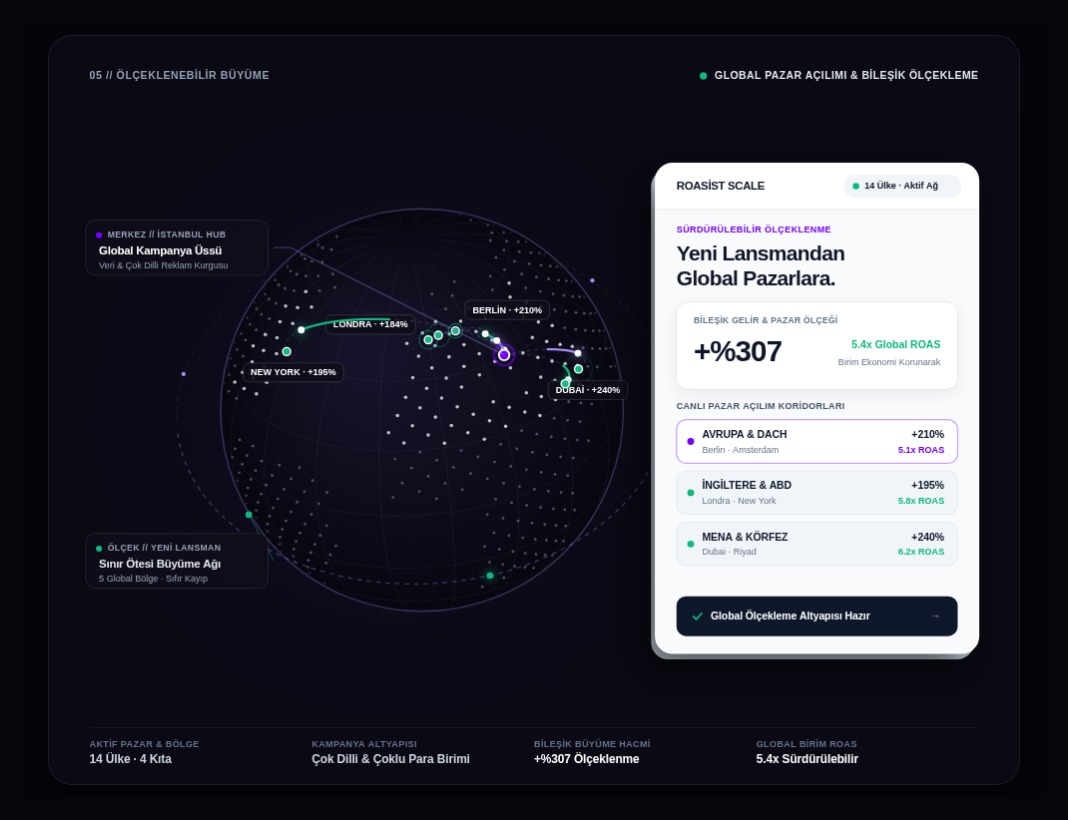
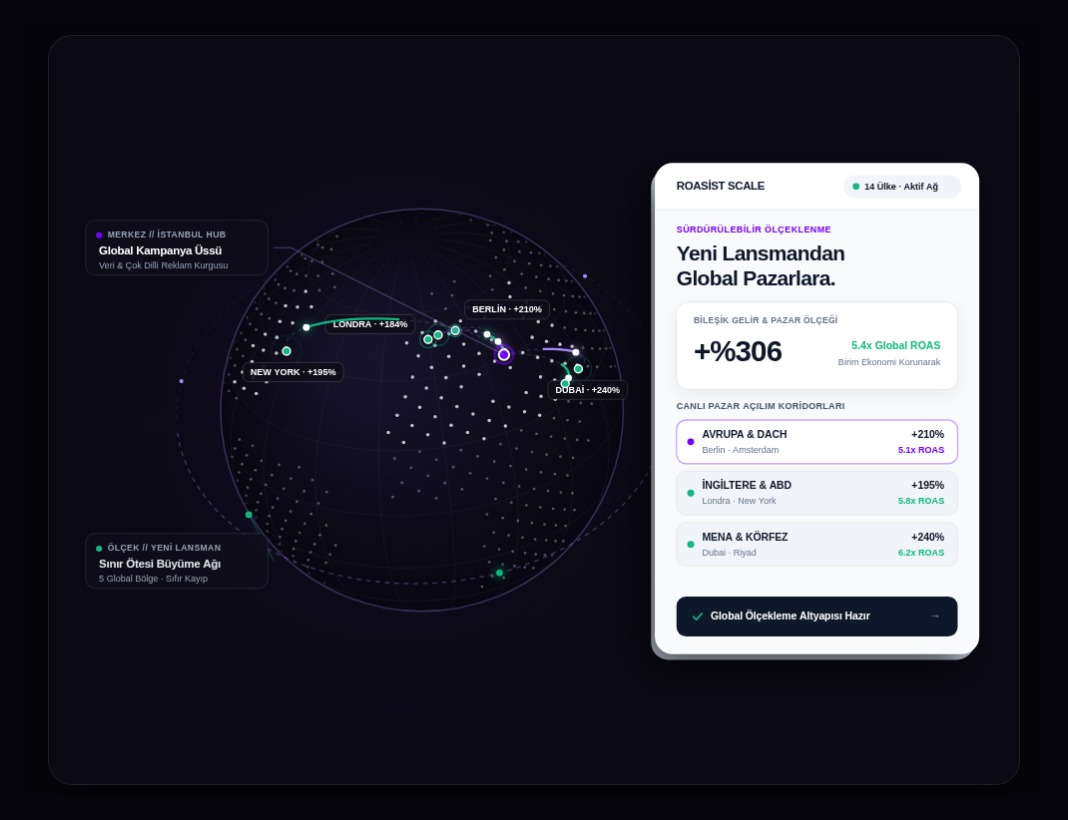
style(home): remove top and bottom HUD text overlays from Slide 5 (Ölçeklenebilir büyüme) canvas

diff --git a/public/olceklenebilir-buyume-3d.html b/public/olceklenebilir-buyume-3d.html
@@ -348,9 +348,9 @@
       }
 
       // ============================================================================
-      // 1. STUDIO BACKDROP & MINIMAL ARCHITECTURAL HUD (ZERO BOX-IN-BOX)
+      // 1. STUDIO BACKDROP (CLEAN ARCHITECTURAL STAGE, ZERO TOP/BOTTOM HUD TEXT)
       // ============================================================================
-      function drawStudioBackdropAndHUD(c, activeMarketsCount, compoundGrowth, globalRoas) {
+      function drawStudioBackdropAndHUD(c) {
         c.fillStyle = '#0B0914';
         c.fillRect(0, 0, 1020, 788);
 
@@ -361,57 +361,6 @@
         grad.addColorStop(1, 'rgba(11, 9, 20, 0)');
         c.fillStyle = grad;
         c.fillRect(0, 0, 1020, 788);
-
-        // Minimal Editorial Top HUD
-        c.save();
-        c.fillStyle = '#94A3B8';
-        c.font = `600 11px 'Inter', sans-serif`;
-        c.textAlign = 'left';
-        c.textBaseline = 'middle';
-        if ('letterSpacing' in c) c.letterSpacing = '0.06em';
-        c.fillText('05 // ÖLÇEKLENEBİLİR BÜYÜME', 42, 42);
-
-        const stateText = 'GLOBAL PAZAR AÇILIMI & BİLEŞİK ÖLÇEKLEME';
-        c.textAlign = 'right';
-        c.fillStyle = '#E2E8F0';
-        c.font = `600 11px 'Inter', sans-serif`;
-        if ('letterSpacing' in c) c.letterSpacing = '0.04em';
-        c.fillText(stateText, 1020 - 42, 42);
-
-        const tw = c.measureText(stateText).width;
-        c.beginPath();
-        c.arc(1020 - 42 - tw - 12, 42, 3.8, 0, Math.PI * 2);
-        c.fillStyle = '#10B981';
-        c.fill();
-
-        // Bottom minimal architectural specs bar (4 columns, tabular-nums)
-        const botY = 788 - 38;
-        c.fillStyle = 'rgba(255, 255, 255, 0.08)';
-        c.fillRect(42, botY - 22, 1020 - 84, 1);
-
-        const specs = [
-          { label: 'AKTİF PAZAR & BÖLGE', val: `${activeMarketsCount} Ülke · 4 Kıta` },
-          { label: 'KAMPANYA ALTYAPISI', val: 'Çok Dilli & Çoklu Para Birimi' },
-          { label: 'BİLEŞİK BÜYÜME HACMİ', val: `+%${Math.round(compoundGrowth)} Ölçeklenme` },
-          { label: 'GLOBAL BİRİM ROAS', val: `${globalRoas.toFixed(1)}x Sürdürülebilir` }
-        ];
-
-        const colW = (1020 - 84) / 4;
-        specs.forEach((sp, i) => {
-          const sx = 42 + i * colW;
-          c.fillStyle = '#64748B';
-          c.font = `600 9.5px 'Inter', sans-serif`;
-          c.textAlign = 'left';
-          if ('letterSpacing' in c) c.letterSpacing = '0.04em';
-          c.fillText(sp.label, sx, botY - 4);
-
-          c.fillStyle = i >= 2 ? '#FFFFFF' : '#CBD5E1';
-          c.font = `700 12.5px 'Inter', sans-serif`;
-          if ('letterSpacing' in c) c.letterSpacing = '-0.01em';
-          c.fillText(sp.val, sx, botY + 13);
-        });
-
-        c.restore();
       }
 
       // ============================================================================

diff --git a/public/en/index.html b/public/en/index.html
@@ -4543,7 +4543,7 @@ html body .roasist-scale-globe-canvas {
     };
   }
 
-  function drawStudioBackdropAndHUDS5(c, activeMarketsCount, compoundGrowth, globalRoas) {
+  function drawStudioBackdropAndHUDS5(c) {
     c.fillStyle = '#0B0914';
     c.fillRect(0, 0, 1020, 788);
 
@@ -4553,55 +4553,6 @@ html body .roasist-scale-globe-canvas {
     grad.addColorStop(1, 'rgba(11, 9, 20, 0)');
     c.fillStyle = grad;
     c.fillRect(0, 0, 1020, 788);
-
-    c.save();
-    c.fillStyle = '#94A3B8';
-    c.font = `600 11px 'Inter', sans-serif`;
-    c.textAlign = 'left';
-    c.textBaseline = 'middle';
-    if ('letterSpacing' in c) c.letterSpacing = '0.06em';
-    c.fillText('05 // ÖLÇEKLENEBİLİR BÜYÜME', 42, 42);
-
-    const stateText = 'GLOBAL PAZAR AÇILIMI & BİLEŞİK ÖLÇEKLEME';
-    c.textAlign = 'right';
-    c.fillStyle = '#E2E8F0';
-    c.font = `600 11px 'Inter', sans-serif`;
-    if ('letterSpacing' in c) c.letterSpacing = '0.04em';
-    c.fillText(stateText, 1020 - 42, 42);
-
-    const tw = c.measureText(stateText).width;
-    c.beginPath();
-    c.arc(1020 - 42 - tw - 12, 42, 3.8, 0, Math.PI * 2);
-    c.fillStyle = '#10B981';
-    c.fill();
-
-    const botY = 788 - 38;
-    c.fillStyle = 'rgba(255, 255, 255, 0.08)';
-    c.fillRect(42, botY - 22, 1020 - 84, 1);
-
-    const specs = [
-      { label: 'AKTİF PAZAR & BÖLGE', val: `${activeMarketsCount} Ülke · 4 Kıta` },
-      { label: 'KAMPANYA ALTYAPISI', val: 'Çok Dilli & Çoklu Para Birimi' },
-      { label: 'BİLEŞİK BÜYÜME HACMİ', val: `+%${Math.round(compoundGrowth)} Ölçeklenme` },
-      { label: 'GLOBAL BİRİM ROAS', val: `${globalRoas.toFixed(1)}x Sürdürülebilir` }
-    ];
-
-    const colW = (1020 - 84) / 4;
-    specs.forEach((sp, i) => {
-      const sx = 42 + i * colW;
-      c.fillStyle = '#64748B';
-      c.font = `600 9.5px 'Inter', sans-serif`;
-      c.textAlign = 'left';
-      if ('letterSpacing' in c) c.letterSpacing = '0.04em';
-      c.fillText(sp.label, sx, botY - 4);
-
-      c.fillStyle = i >= 2 ? '#FFFFFF' : '#CBD5E1';
-      c.font = `700 12.5px 'Inter', sans-serif`;
-      if ('letterSpacing' in c) c.letterSpacing = '-0.01em';
-      c.fillText(sp.val, sx, botY + 13);
-    });
-
-    c.restore();
   }
 
   function drawOrbitalScaleRingHalfS5(c, radius, cam, elapsed, isFrontHalf) {

diff --git a/public/kota-roasist-local.html b/public/kota-roasist-local.html
@@ -4543,7 +4543,7 @@ html body .roasist-scale-globe-canvas {
     };
   }
 
-  function drawStudioBackdropAndHUDS5(c, activeMarketsCount, compoundGrowth, globalRoas) {
+  function drawStudioBackdropAndHUDS5(c) {
     c.fillStyle = '#0B0914';
     c.fillRect(0, 0, 1020, 788);
 
@@ -4553,55 +4553,6 @@ html body .roasist-scale-globe-canvas {
     grad.addColorStop(1, 'rgba(11, 9, 20, 0)');
     c.fillStyle = grad;
     c.fillRect(0, 0, 1020, 788);
-
-    c.save();
-    c.fillStyle = '#94A3B8';
-    c.font = `600 11px 'Inter', sans-serif`;
-    c.textAlign = 'left';
-    c.textBaseline = 'middle';
-    if ('letterSpacing' in c) c.letterSpacing = '0.06em';
-    c.fillText('05 // ÖLÇEKLENEBİLİR BÜYÜME', 42, 42);
-
-    const stateText = 'GLOBAL PAZAR AÇILIMI & BİLEŞİK ÖLÇEKLEME';
-    c.textAlign = 'right';
-    c.fillStyle = '#E2E8F0';
-    c.font = `600 11px 'Inter', sans-serif`;
-    if ('letterSpacing' in c) c.letterSpacing = '0.04em';
-    c.fillText(stateText, 1020 - 42, 42);
-
-    const tw = c.measureText(stateText).width;
-    c.beginPath();
-    c.arc(1020 - 42 - tw - 12, 42, 3.8, 0, Math.PI * 2);
-    c.fillStyle = '#10B981';
-    c.fill();
-
-    const botY = 788 - 38;
-    c.fillStyle = 'rgba(255, 255, 255, 0.08)';
-    c.fillRect(42, botY - 22, 1020 - 84, 1);
-
-    const specs = [
-      { label: 'AKTİF PAZAR & BÖLGE', val: `${activeMarketsCount} Ülke · 4 Kıta` },
-      { label: 'KAMPANYA ALTYAPISI', val: 'Çok Dilli & Çoklu Para Birimi' },
-      { label: 'BİLEŞİK BÜYÜME HACMİ', val: `+%${Math.round(compoundGrowth)} Ölçeklenme` },
-      { label: 'GLOBAL BİRİM ROAS', val: `${globalRoas.toFixed(1)}x Sürdürülebilir` }
-    ];
-
-    const colW = (1020 - 84) / 4;
-    specs.forEach((sp, i) => {
-      const sx = 42 + i * colW;
-      c.fillStyle = '#64748B';
-      c.font = `600 9.5px 'Inter', sans-serif`;
-      c.textAlign = 'left';
-      if ('letterSpacing' in c) c.letterSpacing = '0.04em';
-      c.fillText(sp.label, sx, botY - 4);
-
-      c.fillStyle = i >= 2 ? '#FFFFFF' : '#CBD5E1';
-      c.font = `700 12.5px 'Inter', sans-serif`;
-      if ('letterSpacing' in c) c.letterSpacing = '-0.01em';
-      c.fillText(sp.val, sx, botY + 13);
-    });
-
-    c.restore();
   }
 
   function drawOrbitalScaleRingHalfS5(c, radius, cam, elapsed, isFrontHalf) {

diff --git a/scripts/inject_homepage_kinetic_3d.py b/scripts/inject_homepage_kinetic_3d.py
@@ -2634,7 +2634,7 @@ html body .roasist-scale-globe-canvas {
     };
   }
 
-  function drawStudioBackdropAndHUDS5(c, activeMarketsCount, compoundGrowth, globalRoas) {
+  function drawStudioBackdropAndHUDS5(c) {
     c.fillStyle = '#0B0914';
     c.fillRect(0, 0, 1020, 788);
 
@@ -2644,55 +2644,6 @@ html body .roasist-scale-globe-canvas {
     grad.addColorStop(1, 'rgba(11, 9, 20, 0)');
     c.fillStyle = grad;
     c.fillRect(0, 0, 1020, 788);
-
-    c.save();
-    c.fillStyle = '#94A3B8';
-    c.font = `600 11px 'Inter', sans-serif`;
-    c.textAlign = 'left';
-    c.textBaseline = 'middle';
-    if ('letterSpacing' in c) c.letterSpacing = '0.06em';
-    c.fillText('05 // ÖLÇEKLENEBİLİR BÜYÜME', 42, 42);
-
-    const stateText = 'GLOBAL PAZAR AÇILIMI & BİLEŞİK ÖLÇEKLEME';
-    c.textAlign = 'right';
-    c.fillStyle = '#E2E8F0';
-    c.font = `600 11px 'Inter', sans-serif`;
-    if ('letterSpacing' in c) c.letterSpacing = '0.04em';
-    c.fillText(stateText, 1020 - 42, 42);
-
-    const tw = c.measureText(stateText).width;
-    c.beginPath();
-    c.arc(1020 - 42 - tw - 12, 42, 3.8, 0, Math.PI * 2);
-    c.fillStyle = '#10B981';
-    c.fill();
-
-    const botY = 788 - 38;
-    c.fillStyle = 'rgba(255, 255, 255, 0.08)';
-    c.fillRect(42, botY - 22, 1020 - 84, 1);
-
-    const specs = [
-      { label: 'AKTİF PAZAR & BÖLGE', val: `${activeMarketsCount} Ülke · 4 Kıta` },
-      { label: 'KAMPANYA ALTYAPISI', val: 'Çok Dilli & Çoklu Para Birimi' },
-      { label: 'BİLEŞİK BÜYÜME HACMİ', val: `+%${Math.round(compoundGrowth)} Ölçeklenme` },
-      { label: 'GLOBAL BİRİM ROAS', val: `${globalRoas.toFixed(1)}x Sürdürülebilir` }
-    ];
-
-    const colW = (1020 - 84) / 4;
-    specs.forEach((sp, i) => {
-      const sx = 42 + i * colW;
-      c.fillStyle = '#64748B';
-      c.font = `600 9.5px 'Inter', sans-serif`;
-      c.textAlign = 'left';
-      if ('letterSpacing' in c) c.letterSpacing = '0.04em';
-      c.fillText(sp.label, sx, botY - 4);
-
-      c.fillStyle = i >= 2 ? '#FFFFFF' : '#CBD5E1';
-      c.font = `700 12.5px 'Inter', sans-serif`;
-      if ('letterSpacing' in c) c.letterSpacing = '-0.01em';
-      c.fillText(sp.val, sx, botY + 13);
-    });
-
-    c.restore();
   }
 
   function drawOrbitalScaleRingHalfS5(c, radius, cam, elapsed, isFrontHalf) {
